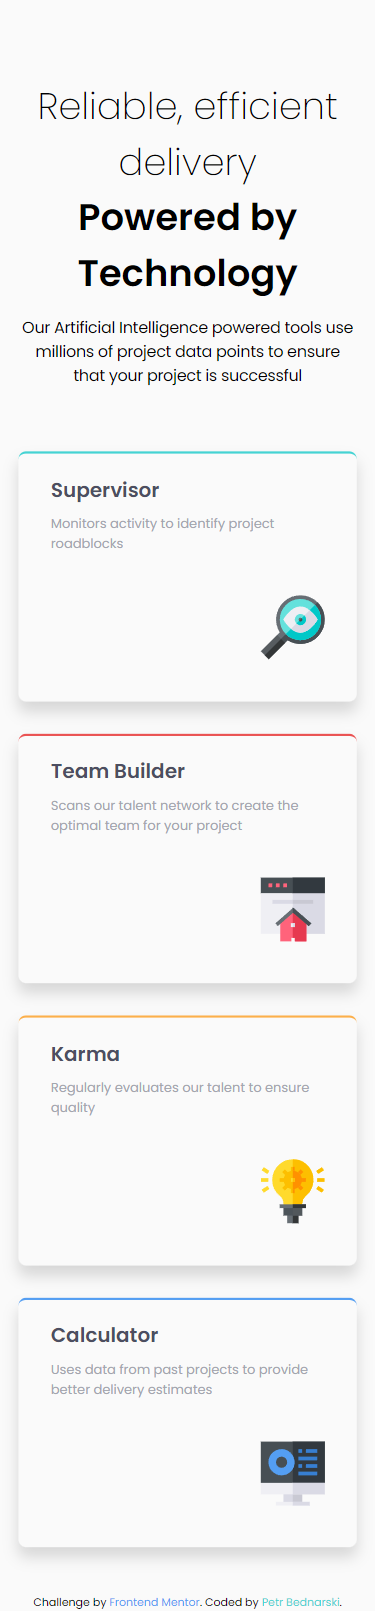
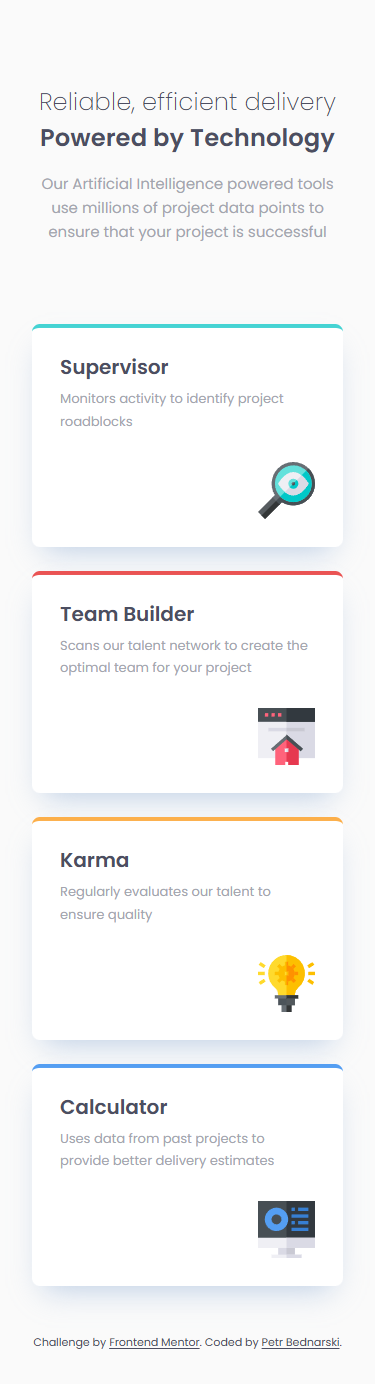
Document the responsive solution and refresh preview screenshots
Describe the finished layout, tools, responsive decisions, validation, and continued development. Replace the solution previews with verified Chrome captures.

Changed region(s): [[0.0587, 0.0621, 0.9387, 1.0]]

diff --git a/README.md b/README.md
@@ -1,14 +1,74 @@
 # Frontend Mentor - Four card feature section
 
-![Design preview for the Four card feature section coding challenge](./design/desktop-preview.jpg)
+A responsive feature section built for the [Frontend Mentor challenge](https://www.frontendmentor.io/challenges/four-card-feature-section-weK1eFYK). Four cards explain how the service supports project delivery, with a centered introduction and a layout that adapts from a single column to the desktop cross arrangement.
 
-## Welcome! 👋
+## Links
 
-Thanks for checking out this front-end coding challenge. This challenge is to build out this feature section and get it looking as close to the design as possible.
+- [Source code](https://github.com/pettik/FrontendMentor--four-card-feature-section)
+- [Challenge](https://www.frontendmentor.io/challenges/four-card-feature-section-weK1eFYK)
 
-## My desktop solution 🖥
-<img src="desktop-preview.png" alt="My desktop solution">
+A live deployment URL has not been documented. The GitHub Pages URL for this repository currently returns 404; use the local preview below to view this version.
 
+## Solution screenshots
 
-## My mobile solution 📱
-<img src="mobile-preview.png" alt="My mobile solution" width="350px">
+These screenshots show the implemented page in Chrome, with the Poppins font loaded. They replace the older solution captures; the original challenge references remain in `design/`.
+
+### Desktop (1440px viewport)
+
+![Implemented desktop layout with four cards in a three-column cross arrangement](./desktop-preview.png)
+
+### Mobile (375px viewport)
+
+<img src="./mobile-preview.png" alt="Implemented mobile layout with all four cards stacked vertically" width="375">
+
+## Built with
+
+- Semantic HTML: one page heading, level-two card headings, and article elements.
+- CSS Grid for the responsive card arrangement.
+- Flexbox inside each card to position its decorative icon below the description.
+- CSS custom properties for the challenge palette.
+- Relative font sizes and `clamp()` for scalable typography.
+- [Poppins](https://fonts.google.com/specimen/Poppins), loaded from Google Fonts.
+
+No build step or JavaScript is required.
+
+## Live site
+
+[Live site - netlify](https://pettik-four-card-section.netlify.app/)
+
+### Responsive layout
+
+The grid uses `minmax(0, 1fr)` columns, and each card fills its column instead of keeping a fixed pixel width. The layout uses three columns above `64rem`, two columns between `40rem` and `64rem`, and one column at `40rem` or below. At the default browser font size, those breakpoints are 1024px and 640px.
+
+On desktop, Supervisor and Calculator span both grid rows and sit beside the two middle cards. At narrower widths, their explicit grid positions reset so the visual order follows the document: Supervisor, Team Builder, Karma, Calculator.
+
+Cards use a minimum height and can grow with their text. This keeps descriptions and icons from overlapping when text is enlarged or wraps onto more lines.
+
+### What I learned
+
+A grid track can shrink while a fixed-width child still overflows it. Combining flexible tracks, `width: 100%`, and `min-width: 0` lets the cards adapt at intermediate widths.
+
+The introductory line is a paragraph, followed by the page's `h1`. Each card has an `h2`, so its content is easy to find using heading navigation. Icons use empty alternative text because the adjacent headings already convey their meaning.
+
+Using `rem` for text and minimum card heights respects the browser's base text size. Testing enlarged text also exposed the need to wrap long words in narrow layouts.
+
+### Continued development
+
+A useful next step is to compare font loading and line wrapping across Firefox and Safari. Self-hosting Poppins could also remove the external font request.
+
+For future changes, keep commits focused on one purpose and describe the result, for example `Fix card overflow at tablet widths` or `Document the finished responsive solution`.
+
+## Validation
+
+The updated solution was checked in Chrome:
+
+- 77 viewport widths from 320px to 1440px, including both sides of each breakpoint and the previously problematic 769px range.
+- 200% base text size at 320, 375, 640, 769, 1024, and 1440px.
+- No horizontal scrolling, overlapping cards, clipped card content, or collisions between descriptions and icons in those checks.
+- One `h1` followed by four `h2` headings, decorative icons with empty `alt` attributes, and correctly loaded SVG assets.
+- Keyboard access to both footer links.
+- Desktop and mobile screenshots captured from the local implementation and visually reviewed against the supplied JPG references.
+
+## Author
+
+[Petr Bednarski](https://github.com/pettik)
